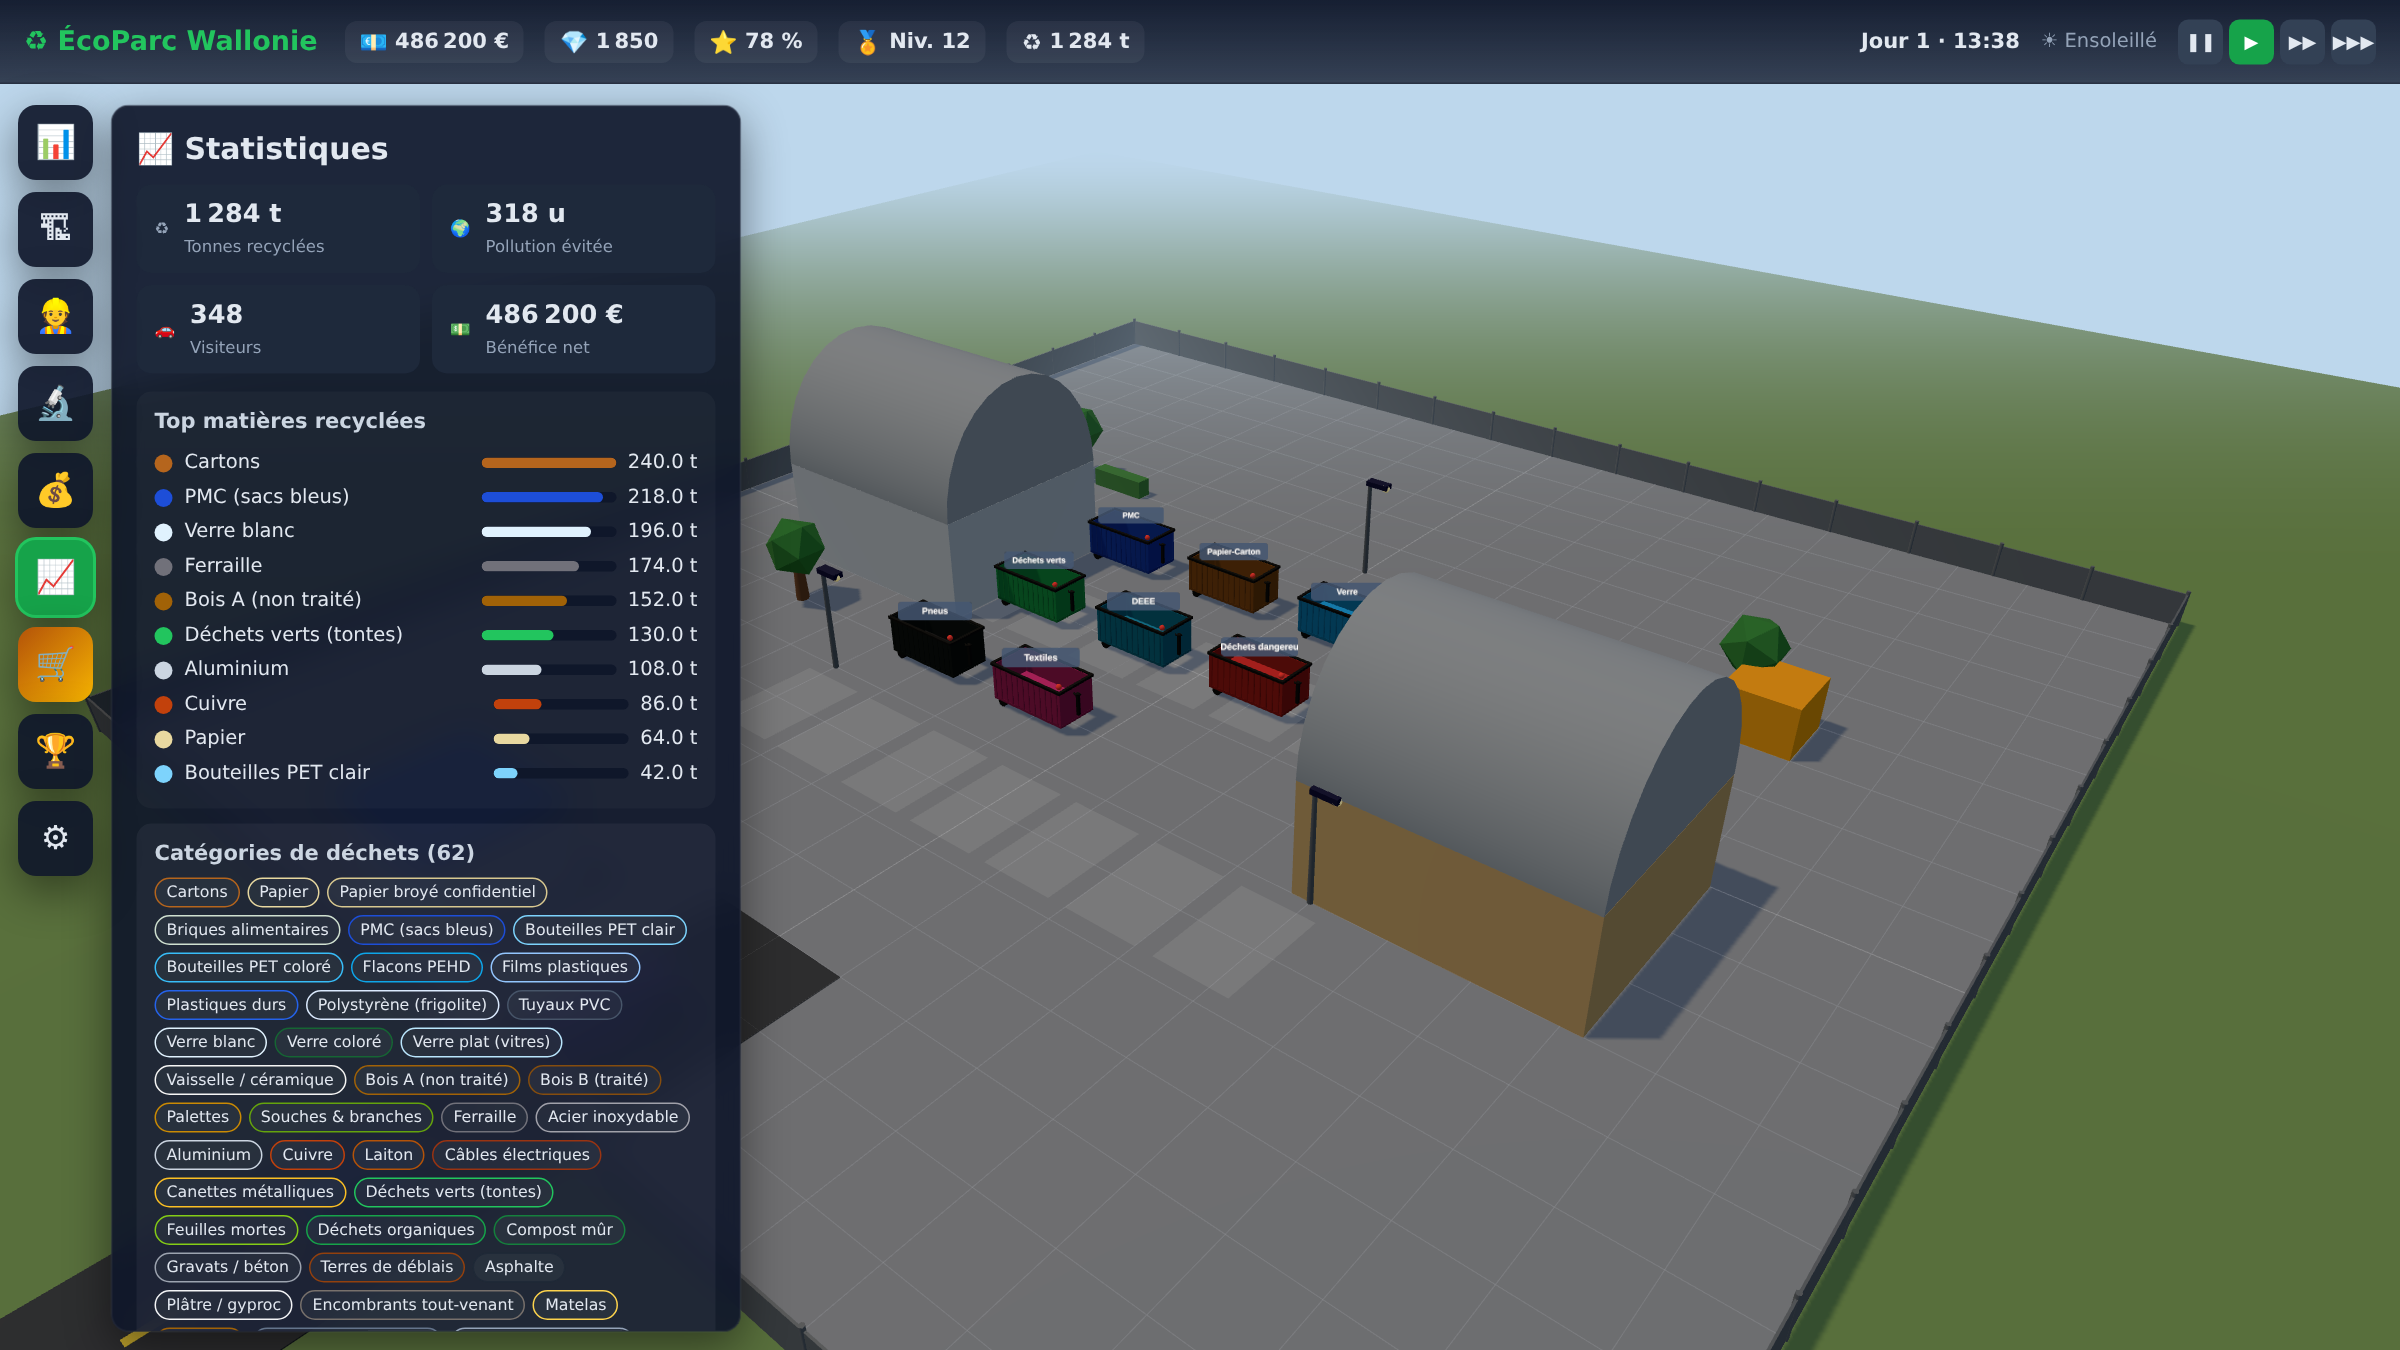
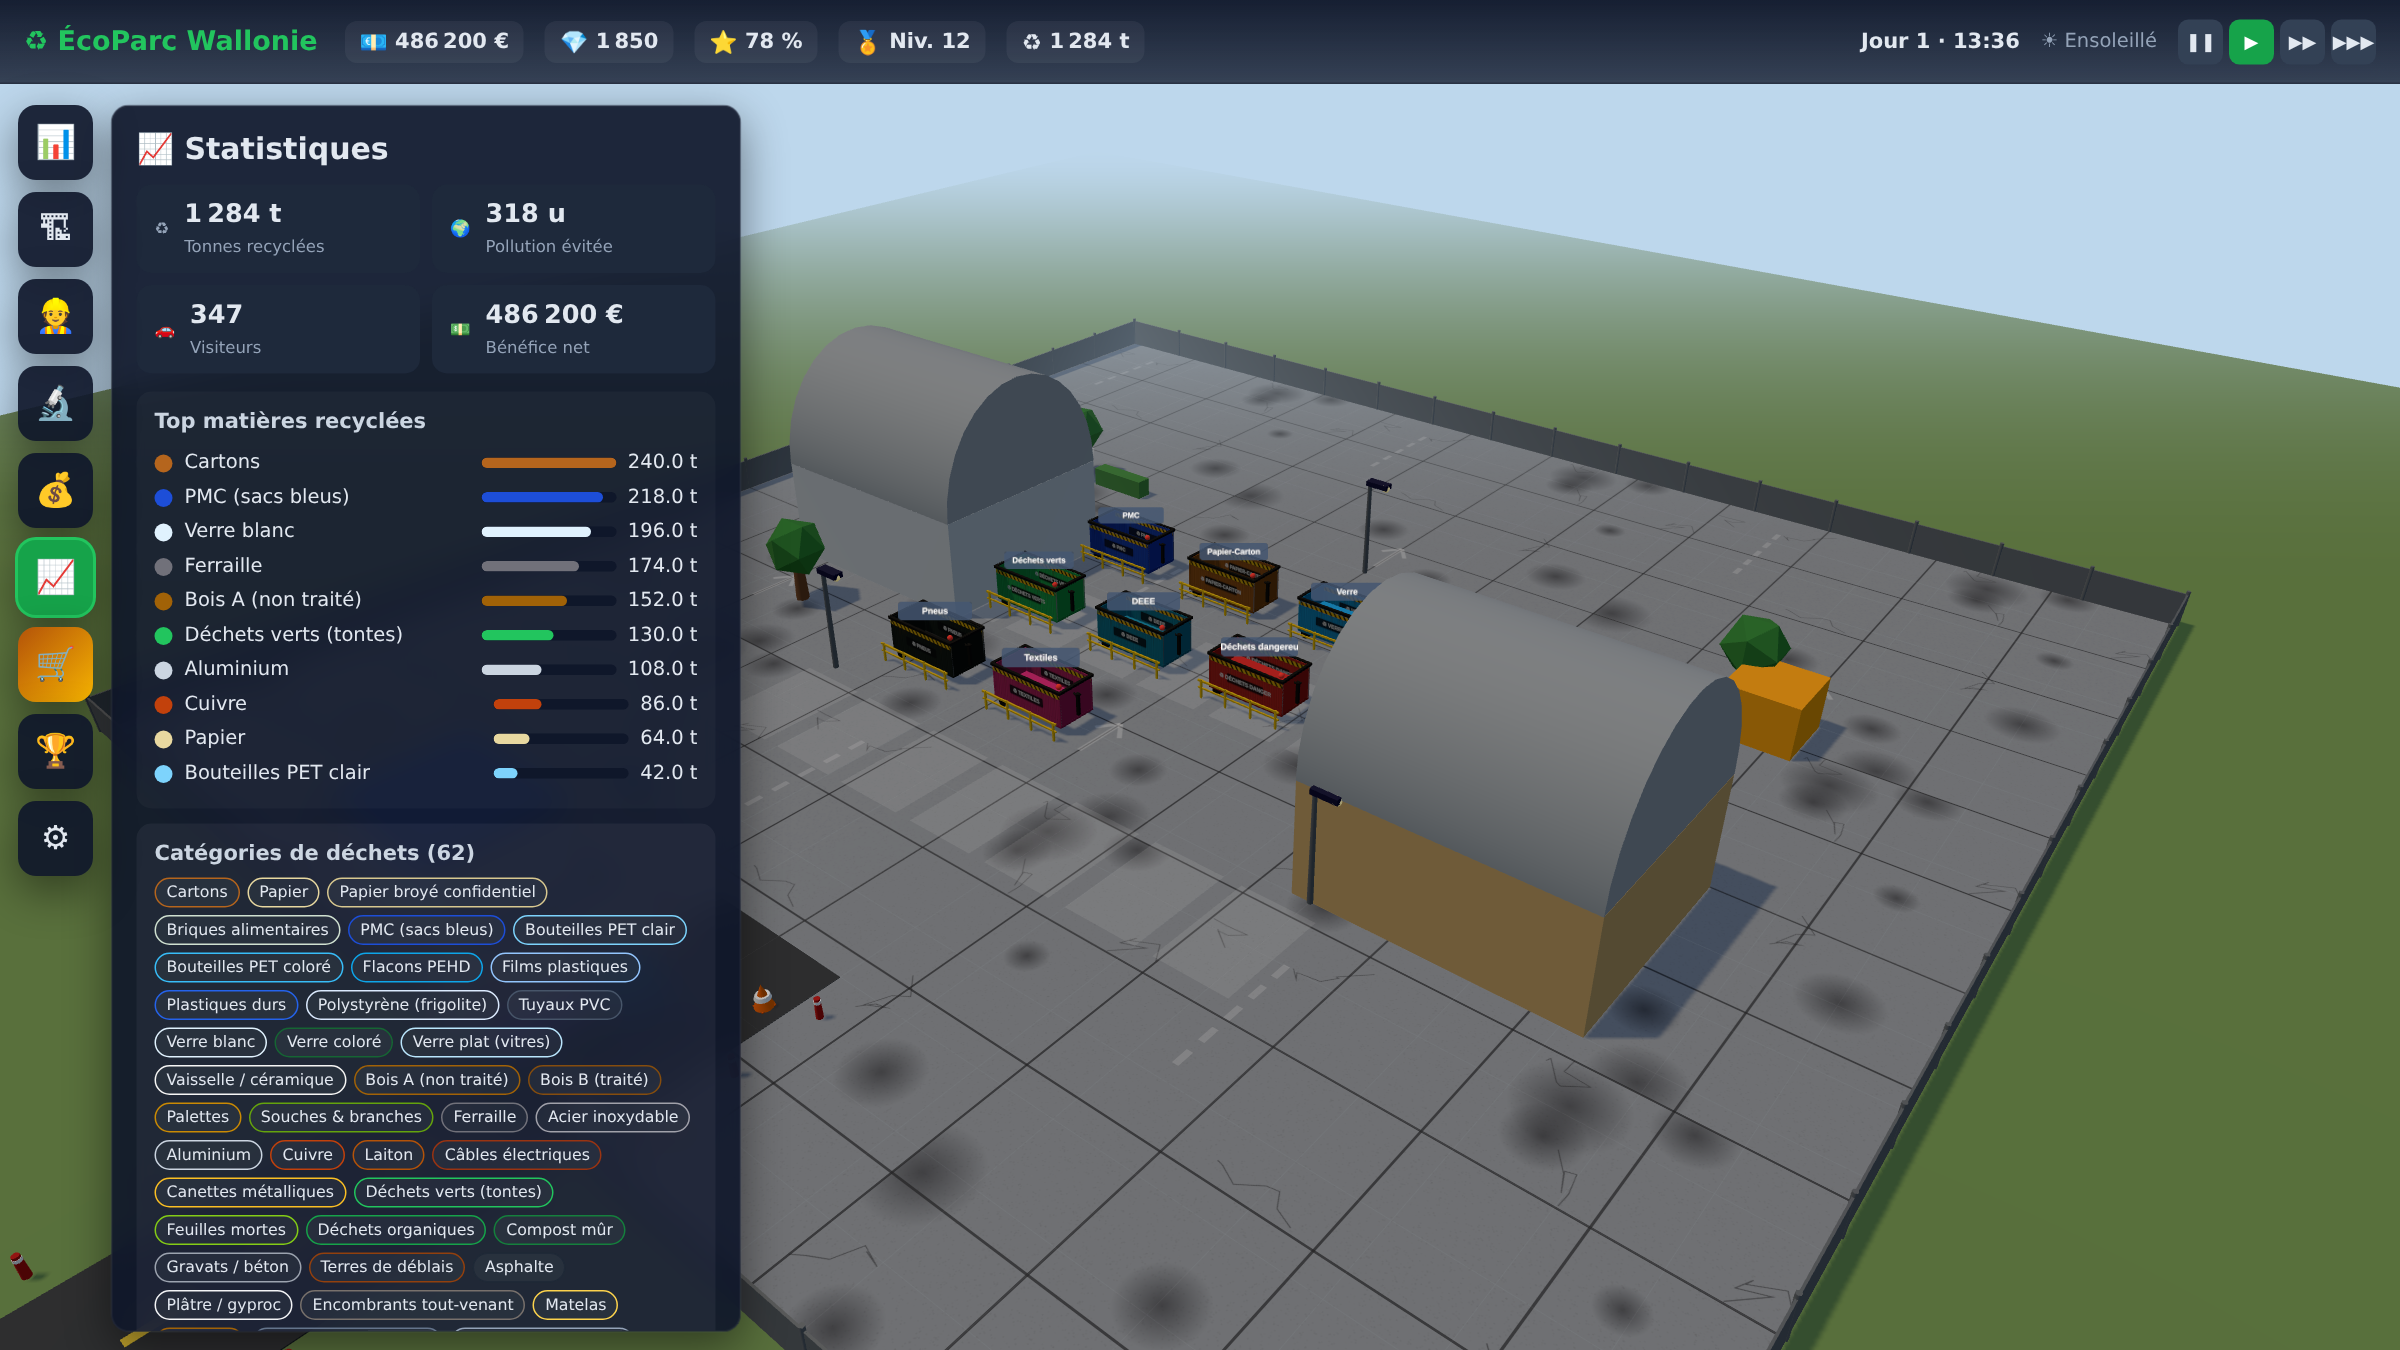
Textures procédurales (bennes + béton) et détails de site
Option 1 — Textures:
- Bennes: tôle ondulée + bande réfléchissante hachurée + nom de fraction
  + coulures de rouille/usure (CanvasTexture par fraction)
- Sol: béton texturé (grain, joints de dilatation, taches d'huile, fissures,
  marquages au sol)

Option 2 — Détails de site:
- Rambarde de sécurité jaune le long du quai d'accès de chaque benne
- Cônes de signalisation, plots/bornes le long de la voie, panneau d'info
- Nouveaux éléments plaçables (cône, plot, panneau, rambarde)

diff --git a/src/scene3d.js b/src/scene3d.js
@@ -85,17 +85,18 @@ export class Scene3D {
     grass.receiveShadow = true;
     this.scene.add(grass);
 
-    // Dalle bétonnée du parc
-    const concreteMat = new THREE.MeshStandardMaterial({ color: 0x8a8d92, roughness: 0.95 });
-    const slab = new THREE.Mesh(new THREE.BoxGeometry(GROUND, 0.4, GROUND), concreteMat);
-    slab.position.y = -0.2;
-    slab.receiveShadow = true;
-    this.scene.add(slab);
-    this.slab = slab;
+    // Dalle bétonnée du parc (épaisseur) + surface texturée
+    const slab = new THREE.Mesh(new THREE.BoxGeometry(GROUND, 0.4, GROUND), new THREE.MeshStandardMaterial({ color: 0x6f7378, roughness: 0.95 }));
+    slab.position.y = -0.2; slab.receiveShadow = true;
+    this.scene.add(slab); this.slab = slab;
+    const surface = new THREE.Mesh(new THREE.PlaneGeometry(GROUND, GROUND),
+      new THREE.MeshStandardMaterial({ map: this._concreteTexture(), roughness: 0.95, metalness: 0.02 }));
+    surface.rotation.x = -Math.PI / 2; surface.position.y = 0.011; surface.receiveShadow = true;
+    this.scene.add(surface);
 
-    // Marquage de la dalle (lignes claires)
+    // Grille de placement discrète
     const grid = new THREE.GridHelper(GROUND, GROUND / TILE, 0xffffff, 0xb8bcc2);
-    grid.material.opacity = 0.18; grid.material.transparent = true;
+    grid.material.opacity = 0.06; grid.material.transparent = true;
     grid.position.y = 0.02;
     this.scene.add(grid);
 
@@ -122,6 +123,14 @@ export class Scene3D {
     const booth = this._makeBuildingMesh('bureau');
     booth.position.set(-14, 0, GROUND / 2 - 6);
     this.scene.add(booth);
+
+    // Détails de site : plots le long de la voie, cônes, panneau d'accueil
+    for (let z = GROUND / 2 - 10; z < GROUND / 2 + 16; z += 4) {
+      for (const sx of [-1, 1]) { const b = this._makeBuildingMesh('bollard'); b.position.set(sx * 5.2, 0, z); this.scene.add(b); }
+    }
+    [['cone', -6, GROUND / 2 - 3], ['cone', 6, GROUND / 2 - 3], ['cone', -3, GROUND / 2 - 9], ['cone', 3, GROUND / 2 - 9]]
+      .forEach(([t, x, z]) => { const m = this._makeBuildingMesh(t); m.position.set(x, 0, z); this.scene.add(m); });
+    const sign = this._makeBuildingMesh('panneau'); sign.position.set(-12, 0, GROUND / 2 - 13); sign.rotation.y = 0.4; this.scene.add(sign);
   }
 
   _buildBarrier(x, z) {
@@ -219,23 +228,17 @@ export class Scene3D {
     // plancher
     const floor = new THREE.Mesh(new THREE.BoxGeometry(L, 0.16, W), dark);
     floor.position.y = FY; floor.receiveShadow = true; grp.add(floor);
-    // parois longues + courtes (toit ouvert)
+    // parois longues texturées (tôle ondulée + bande réfléchissante + nom + rouille)
+    const sideTex = this._skipTexture('#' + base.getHexString(), FRACTIONS[fraction] ? FRACTIONS[fraction].name : fraction);
+    const sideMat = new THREE.MeshStandardMaterial({ map: sideTex, metalness: 0.5, roughness: 0.55 });
     for (const sz of [-1, 1]) {
-      const s = new THREE.Mesh(new THREE.BoxGeometry(L, H, t), mat);
+      const s = new THREE.Mesh(new THREE.BoxGeometry(L, H, t), sideMat);
       s.position.set(0, FY + H / 2, sz * (W / 2 - t / 2)); s.castShadow = true; s.receiveShadow = true; grp.add(s);
     }
+    // parois courtes (acier peint uni)
     for (const sx of [-1, 1]) {
       const s = new THREE.Mesh(new THREE.BoxGeometry(t, H, W), mat);
       s.position.set(sx * (L / 2 - t / 2), FY + H / 2, 0); s.castShadow = true; grp.add(s);
-    }
-    // nervures verticales (tôle ondulée)
-    const ribN = Math.floor(L / 0.42);
-    for (let i = 0; i <= ribN; i++) {
-      const x = -L / 2 + 0.2 + i * (L - 0.4) / ribN;
-      for (const sz of [-1, 1]) {
-        const r = new THREE.Mesh(new THREE.BoxGeometry(0.07, H * 0.92, 0.06), dark);
-        r.position.set(x, FY + H / 2, sz * (W / 2)); grp.add(r);
-      }
     }
     // rebord supérieur (4 barres) — laisse le dessus ouvert
     for (const sz of [-1, 1]) { const r = new THREE.Mesh(new THREE.BoxGeometry(L + 0.12, 0.14, 0.16), black); r.position.set(0, FY + H, sz * (W / 2)); grp.add(r); }
@@ -246,6 +249,15 @@ export class Scene3D {
     // galets/roues arrière (-X) caractéristiques du roll-off
     const roller = new THREE.Mesh(new THREE.CylinderGeometry(0.26, 0.26, W * 0.9, 12), black);
     roller.rotation.x = Math.PI / 2; roller.position.set(-L / 2 + 0.4, 0.26, 0); grp.add(roller);
+    // rambarde de sécurité le long du quai d'accès (+Z), comme en recyparc
+    const railMat = new THREE.MeshStandardMaterial({ color: 0xf4c20d, metalness: 0.3, roughness: 0.6 });
+    const rZ = W / 2 + 0.6;
+    const railTop = new THREE.Mesh(new THREE.BoxGeometry(L + 0.5, 0.1, 0.1), railMat); railTop.position.set(0, 1.05, rZ); railTop.castShadow = true; grp.add(railTop);
+    const railMid = new THREE.Mesh(new THREE.BoxGeometry(L + 0.5, 0.08, 0.08), railMat); railMid.position.set(0, 0.62, rZ); grp.add(railMid);
+    for (const px of [-1, -0.34, 0.34, 1]) {
+      const post = new THREE.Mesh(new THREE.BoxGeometry(0.1, 1.15, 0.1), railMat);
+      post.position.set(px * (L / 2 + 0.05), 0.55, rZ); post.castShadow = true; grp.add(post);
+    }
     // matière à l'intérieur (jauge de remplissage, visible par le dessus ouvert)
     const fill = new THREE.Mesh(new THREE.BoxGeometry(L - 0.4, 1, W - 0.4),
       new THREE.MeshStandardMaterial({ color: base.clone().multiplyScalar(0.85), roughness: 1, flatShading: true }));
@@ -340,6 +352,26 @@ export class Scene3D {
       }
       case 'cloture': {
         const m = new THREE.Mesh(new THREE.BoxGeometry(4, 2, 0.1), new THREE.MeshStandardMaterial({ color: 0x7a8088, metalness: 0.4 })); m.position.y = 1; grp.add(m); break;
+      }
+      case 'cone': {
+        const c = new THREE.Mesh(new THREE.ConeGeometry(0.42, 1.1, 16), new THREE.MeshStandardMaterial({ color: 0xff6a00, roughness: 0.5 })); c.position.y = 0.6; c.castShadow = true; grp.add(c);
+        const band = new THREE.Mesh(new THREE.CylinderGeometry(0.3, 0.36, 0.18, 16), new THREE.MeshStandardMaterial({ color: 0xffffff })); band.position.y = 0.55; grp.add(band);
+        const baseP = new THREE.Mesh(new THREE.BoxGeometry(0.66, 0.08, 0.66), new THREE.MeshStandardMaterial({ color: 0xdd5500 })); baseP.position.y = 0.04; grp.add(baseP); break;
+      }
+      case 'bollard': {
+        const p = new THREE.Mesh(new THREE.CylinderGeometry(0.13, 0.16, 1.0, 12), new THREE.MeshStandardMaterial({ color: 0xd11a1a, metalness: 0.3 })); p.position.y = 0.5; p.castShadow = true; grp.add(p);
+        const ring = new THREE.Mesh(new THREE.CylinderGeometry(0.145, 0.145, 0.14, 12), new THREE.MeshStandardMaterial({ color: 0xffffff })); ring.position.y = 0.82; grp.add(ring); break;
+      }
+      case 'panneau': {
+        const pole = new THREE.Mesh(new THREE.CylinderGeometry(0.08, 0.08, 2.4, 8), wall(0x9aa0a6)); pole.position.y = 1.2; pole.castShadow = true; grp.add(pole);
+        const board = new THREE.Mesh(new THREE.BoxGeometry(2.2, 1.3, 0.08), new THREE.MeshStandardMaterial({ color: 0x1463c2 })); board.position.set(0, 2.2, 0); board.castShadow = true; grp.add(board);
+        const lbl = this._makeLabelSprite('TRI DES DÉCHETS'); lbl.position.set(0, 2.2, 0.1); lbl.scale.set(2.0, 0.5, 1); grp.add(lbl); break;
+      }
+      case 'rambarde': {
+        const m = new THREE.MeshStandardMaterial({ color: 0xf4c20d, metalness: 0.3, roughness: 0.6 });
+        const top = new THREE.Mesh(new THREE.BoxGeometry(4, 0.1, 0.1), m); top.position.y = 1.05; top.castShadow = true; grp.add(top);
+        const mid = new THREE.Mesh(new THREE.BoxGeometry(4, 0.08, 0.08), m); mid.position.y = 0.62; grp.add(mid);
+        for (const px of [-1, -0.33, 0.33, 1]) { const p = new THREE.Mesh(new THREE.BoxGeometry(0.1, 1.15, 0.1), m); p.position.set(px * 2, 0.55, 0); grp.add(p); } break;
       }
       default: {
         const b = new THREE.Mesh(new THREE.BoxGeometry(3, 3, 3), wall(0x9aa0a6)); b.position.y = 1.5; grp.add(b);
@@ -584,6 +616,86 @@ export class Scene3D {
     grp.position.copy(pos);
     grp.userData.expire = performance.now() + 6000;
     this.scene.add(grp); this.smoke.push(grp);
+  }
+
+  // --- Textures procédurales (aucune image externe) --------------------------
+  // Tôle de benne : ondulations + bande réfléchissante + nom + rouille/usure.
+  _skipTexture(hex, name) {
+    this._skipTexCache = this._skipTexCache || {};
+    const key = hex + '|' + name;
+    if (this._skipTexCache[key]) return this._skipTexCache[key];
+    const cv = document.createElement('canvas'); cv.width = 600; cv.height = 250;
+    const ctx = cv.getContext('2d');
+    const base = new THREE.Color(hex).lerp(new THREE.Color('#173a22'), 0.2);
+    // fond
+    ctx.fillStyle = '#' + base.getHexString(); ctx.fillRect(0, 0, 600, 250);
+    // ondulations verticales (clair/sombre)
+    for (let x = 0; x < 600; x += 14) {
+      const g = ctx.createLinearGradient(x, 0, x + 14, 0);
+      g.addColorStop(0, 'rgba(255,255,255,0.10)'); g.addColorStop(0.5, 'rgba(0,0,0,0.0)'); g.addColorStop(1, 'rgba(0,0,0,0.22)');
+      ctx.fillStyle = g; ctx.fillRect(x, 0, 14, 250);
+    }
+    // rouille / coulures
+    for (let i = 0; i < 14; i++) {
+      const x = Math.random() * 600, w = 4 + Math.random() * 10, h = 30 + Math.random() * 120;
+      const g = ctx.createLinearGradient(0, 0, 0, h);
+      g.addColorStop(0, 'rgba(120,60,20,0.45)'); g.addColorStop(1, 'rgba(90,45,15,0)');
+      ctx.fillStyle = g; ctx.fillRect(x, Math.random() * 40, w, h);
+    }
+    // bande réfléchissante hachurée (haut)
+    ctx.save();
+    ctx.fillStyle = '#f4c20d'; ctx.fillRect(0, 18, 600, 30);
+    ctx.fillStyle = 'rgba(0,0,0,0.85)';
+    for (let x = -30; x < 600; x += 40) { ctx.beginPath(); ctx.moveTo(x, 18); ctx.lineTo(x + 18, 18); ctx.lineTo(x + 38, 48); ctx.lineTo(x + 20, 48); ctx.closePath(); ctx.fill(); }
+    ctx.restore();
+    // plaque + nom de la fraction
+    ctx.fillStyle = 'rgba(10,15,20,0.78)'; this._roundRect(ctx, 150, 95, 300, 70, 12); ctx.fill();
+    ctx.fillStyle = '#fff'; ctx.font = 'bold 40px sans-serif'; ctx.textAlign = 'center'; ctx.textBaseline = 'middle';
+    ctx.fillText('♻ ' + name.toUpperCase().slice(0, 14), 300, 132);
+    // rivets
+    ctx.fillStyle = 'rgba(0,0,0,0.4)';
+    for (let x = 14; x < 600; x += 28) { ctx.beginPath(); ctx.arc(x, 60, 2.2, 0, 7); ctx.fill(); ctx.beginPath(); ctx.arc(x, 200, 2.2, 0, 7); ctx.fill(); }
+    const tex = new THREE.CanvasTexture(cv);
+    tex.colorSpace = THREE.SRGBColorSpace; tex.anisotropy = 4;
+    this._skipTexCache[key] = tex; return tex;
+  }
+
+  // Dalle béton : teinte, joints de dilatation, taches, fissures, marquages.
+  _concreteTexture() {
+    if (this._concreteTex) return this._concreteTex;
+    const cv = document.createElement('canvas'); cv.width = 1024; cv.height = 1024;
+    const ctx = cv.getContext('2d');
+    ctx.fillStyle = '#8d9197'; ctx.fillRect(0, 0, 1024, 1024);
+    // grain
+    for (let i = 0; i < 26000; i++) {
+      const v = Math.random() * 40 - 20;
+      ctx.fillStyle = `rgba(${128 + v},${130 + v},${135 + v},0.25)`;
+      ctx.fillRect(Math.random() * 1024, Math.random() * 1024, 2, 2);
+    }
+    // taches d'huile
+    for (let i = 0; i < 10; i++) {
+      const x = Math.random() * 1024, y = Math.random() * 1024, r = 20 + Math.random() * 70;
+      const g = ctx.createRadialGradient(x, y, 0, x, y, r);
+      g.addColorStop(0, 'rgba(20,20,25,0.5)'); g.addColorStop(1, 'rgba(20,20,25,0)');
+      ctx.fillStyle = g; ctx.beginPath(); ctx.arc(x, y, r, 0, 7); ctx.fill();
+    }
+    // joints de dilatation
+    ctx.strokeStyle = 'rgba(40,42,46,0.7)'; ctx.lineWidth = 4;
+    for (let i = 0; i <= 1024; i += 256) { ctx.beginPath(); ctx.moveTo(i, 0); ctx.lineTo(i, 1024); ctx.stroke(); ctx.beginPath(); ctx.moveTo(0, i); ctx.lineTo(1024, i); ctx.stroke(); }
+    // fissures
+    ctx.strokeStyle = 'rgba(30,30,34,0.5)'; ctx.lineWidth = 1.5;
+    for (let i = 0; i < 8; i++) { ctx.beginPath(); let x = Math.random() * 1024, y = Math.random() * 1024; ctx.moveTo(x, y); for (let j = 0; j < 6; j++) { x += (Math.random() - 0.5) * 90; y += (Math.random() - 0.5) * 90; ctx.lineTo(x, y); } ctx.stroke(); }
+    // marquages au sol (flèche + lignes effacées)
+    ctx.strokeStyle = 'rgba(240,240,240,0.35)'; ctx.lineWidth = 10;
+    ctx.beginPath(); ctx.moveTo(512, 760); ctx.lineTo(512, 880); ctx.stroke();
+    ctx.beginPath(); ctx.moveTo(512, 760); ctx.lineTo(480, 800); ctx.moveTo(512, 760); ctx.lineTo(544, 800); ctx.stroke();
+    // bande blanche pointillée
+    ctx.fillStyle = 'rgba(240,240,240,0.25)';
+    for (let y = 100; y < 400; y += 60) ctx.fillRect(160, y, 12, 34);
+    const tex = new THREE.CanvasTexture(cv);
+    tex.colorSpace = THREE.SRGBColorSpace; tex.wrapS = tex.wrapT = THREE.RepeatWrapping;
+    tex.repeat.set(3, 3); tex.anisotropy = 4;
+    this._concreteTex = tex; return tex;
   }
 
   // --- Sprite texte (étiquette de conteneur) ---------------------------------

diff --git a/src/data.js b/src/data.js
@@ -193,6 +193,10 @@ export const BUILDINGS = [
   { id: 'poste_secu',  name: 'Poste de sécurité',   cost: 14000, cat: 'batiment',  icon: '🛂', desc: 'Réduit les incidents.' },
   { id: 'arbre',       name: 'Arbre',               cost: 300,   cat: 'deco',      icon: '🌳', desc: '+réputation environnementale.' },
   { id: 'haie',        name: 'Haie',                cost: 180,   cat: 'deco',      icon: '🌿', desc: 'Décoration verte.' },
+  { id: 'cone',        name: 'Cône de signalisation',cost: 40,   cat: 'deco',      icon: '🔶', desc: 'Balise la circulation.' },
+  { id: 'bollard',     name: 'Plot / borne',        cost: 90,    cat: 'deco',      icon: '🟥', desc: 'Protège les zones piétonnes.' },
+  { id: 'panneau',     name: 'Panneau d\'info',     cost: 600,   cat: 'deco',      icon: '🪧', desc: 'Signalétique de tri.' },
+  { id: 'rambarde',    name: 'Rambarde de sécurité',cost: 350,   cat: 'voirie',    icon: '🛤', desc: 'Garde-corps le long des quais.' },
 ];
 
 // --- Boutique premium (EcoGems) ----------------------------------------------
